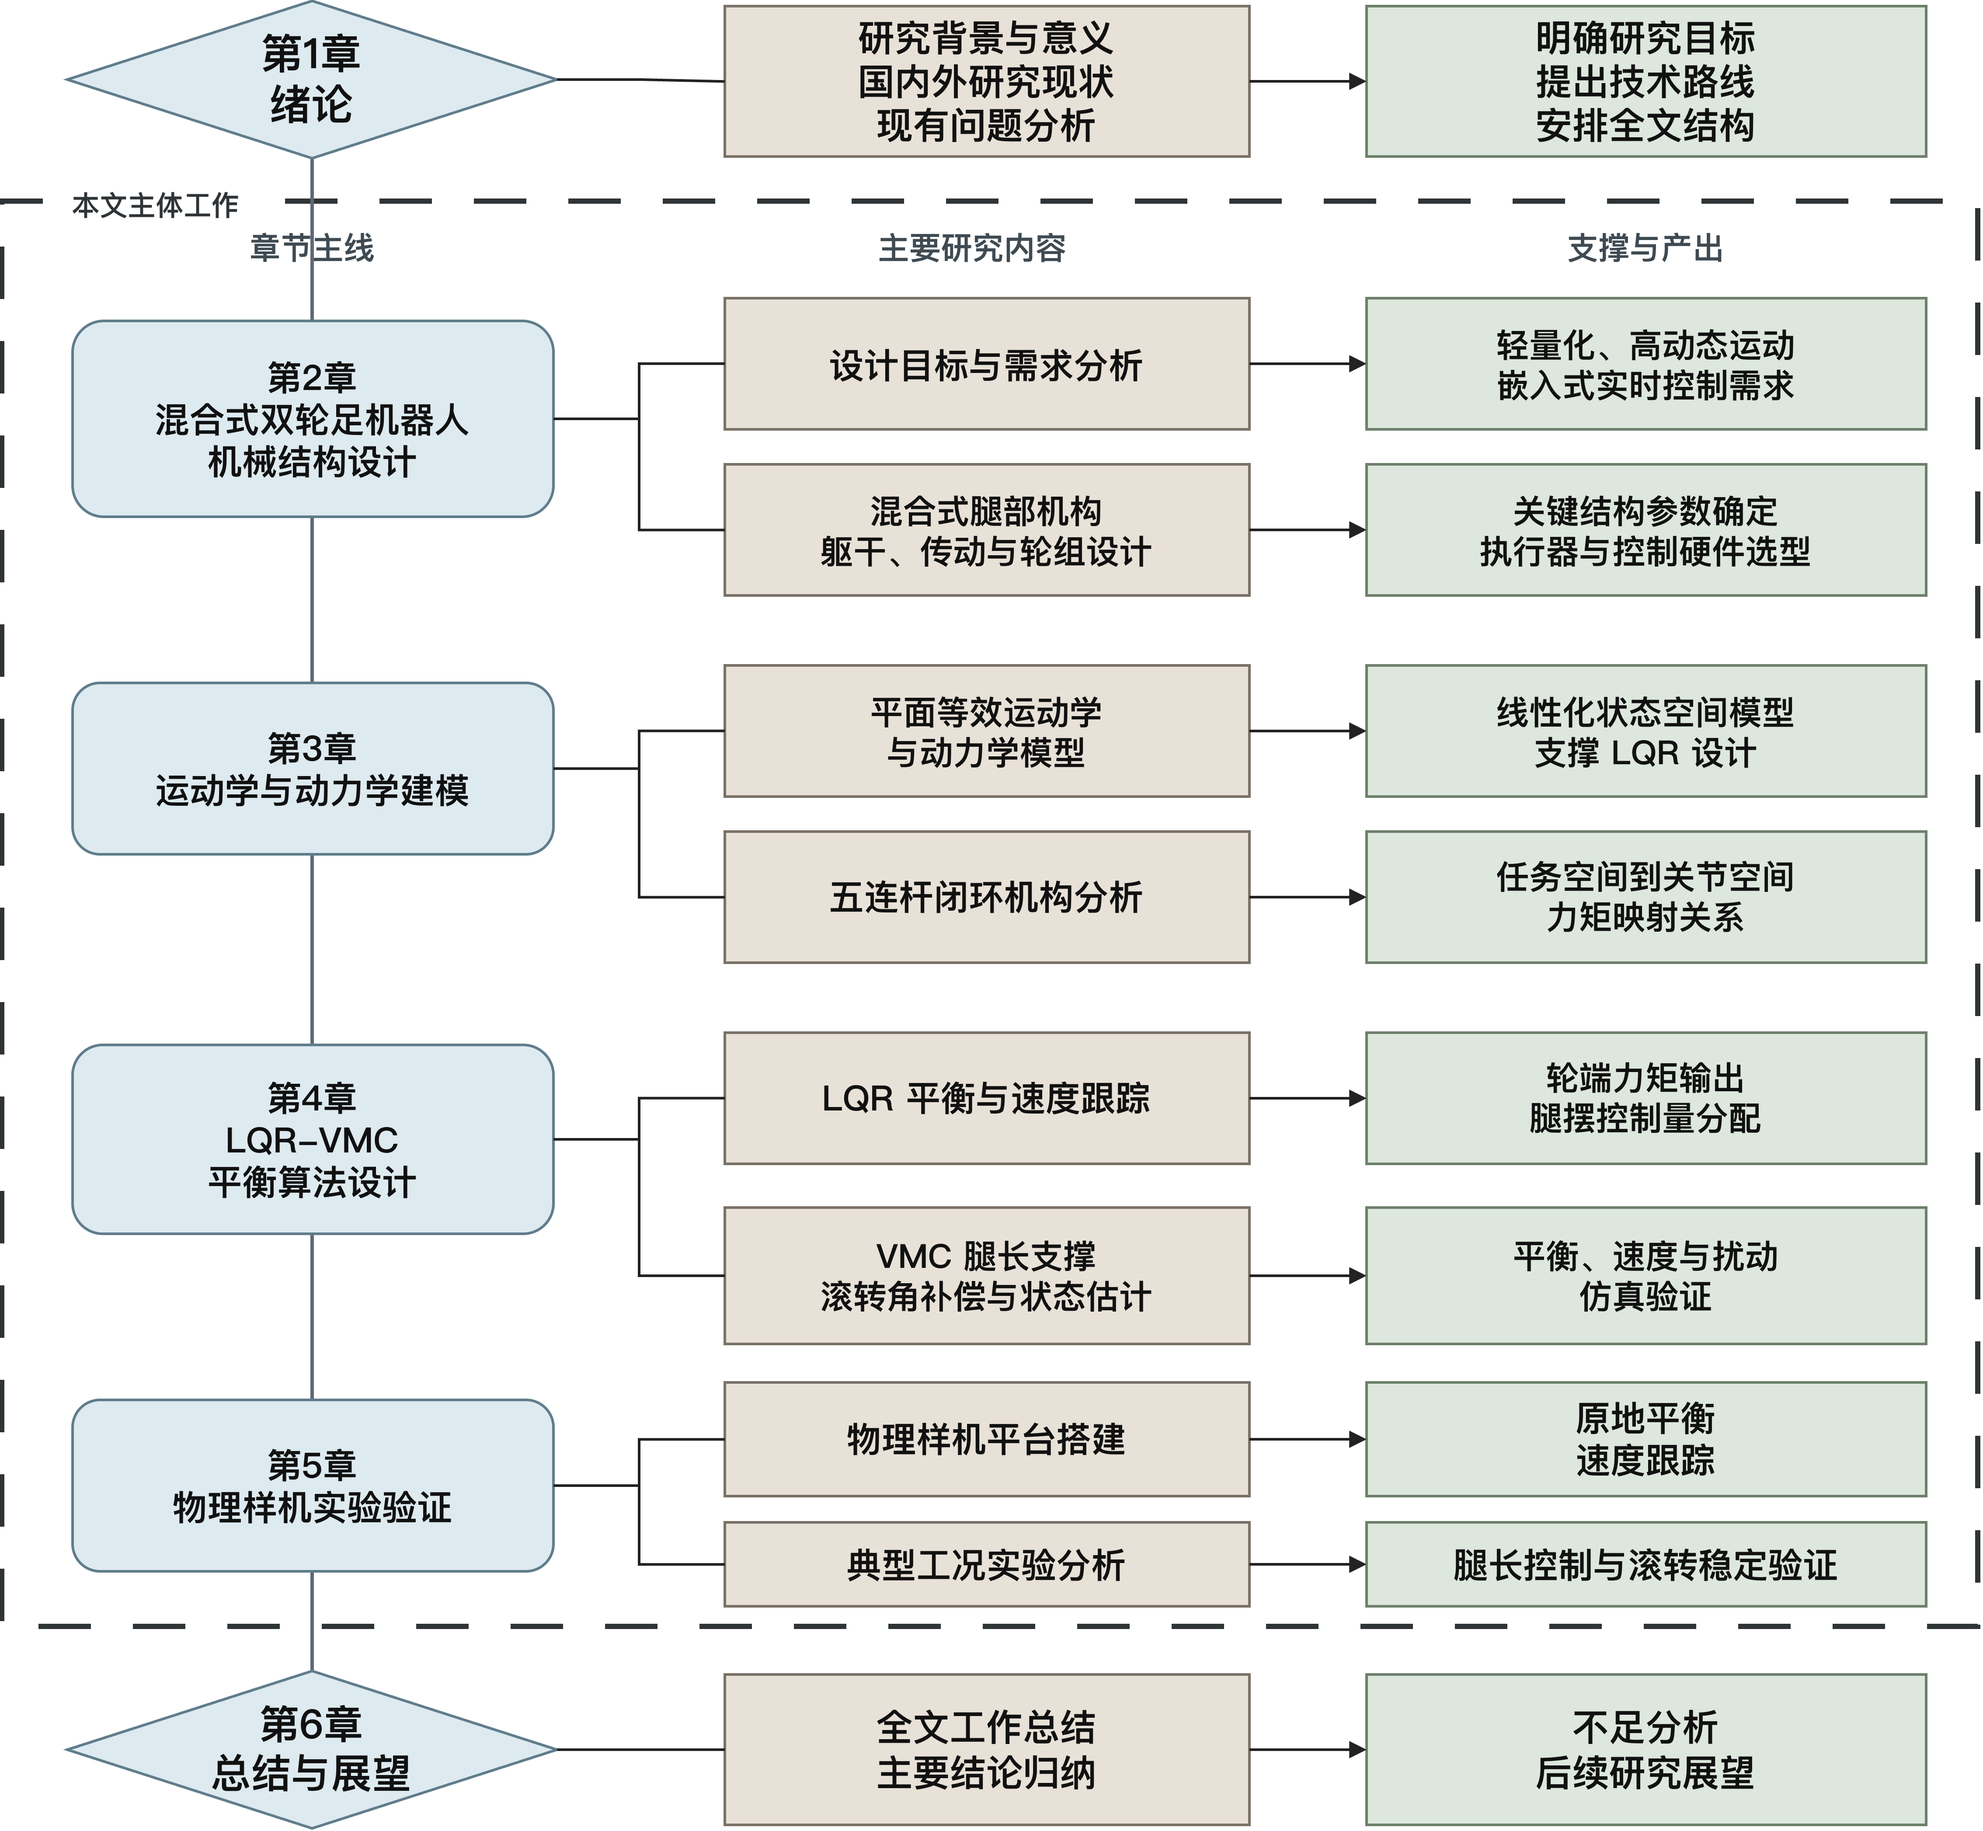
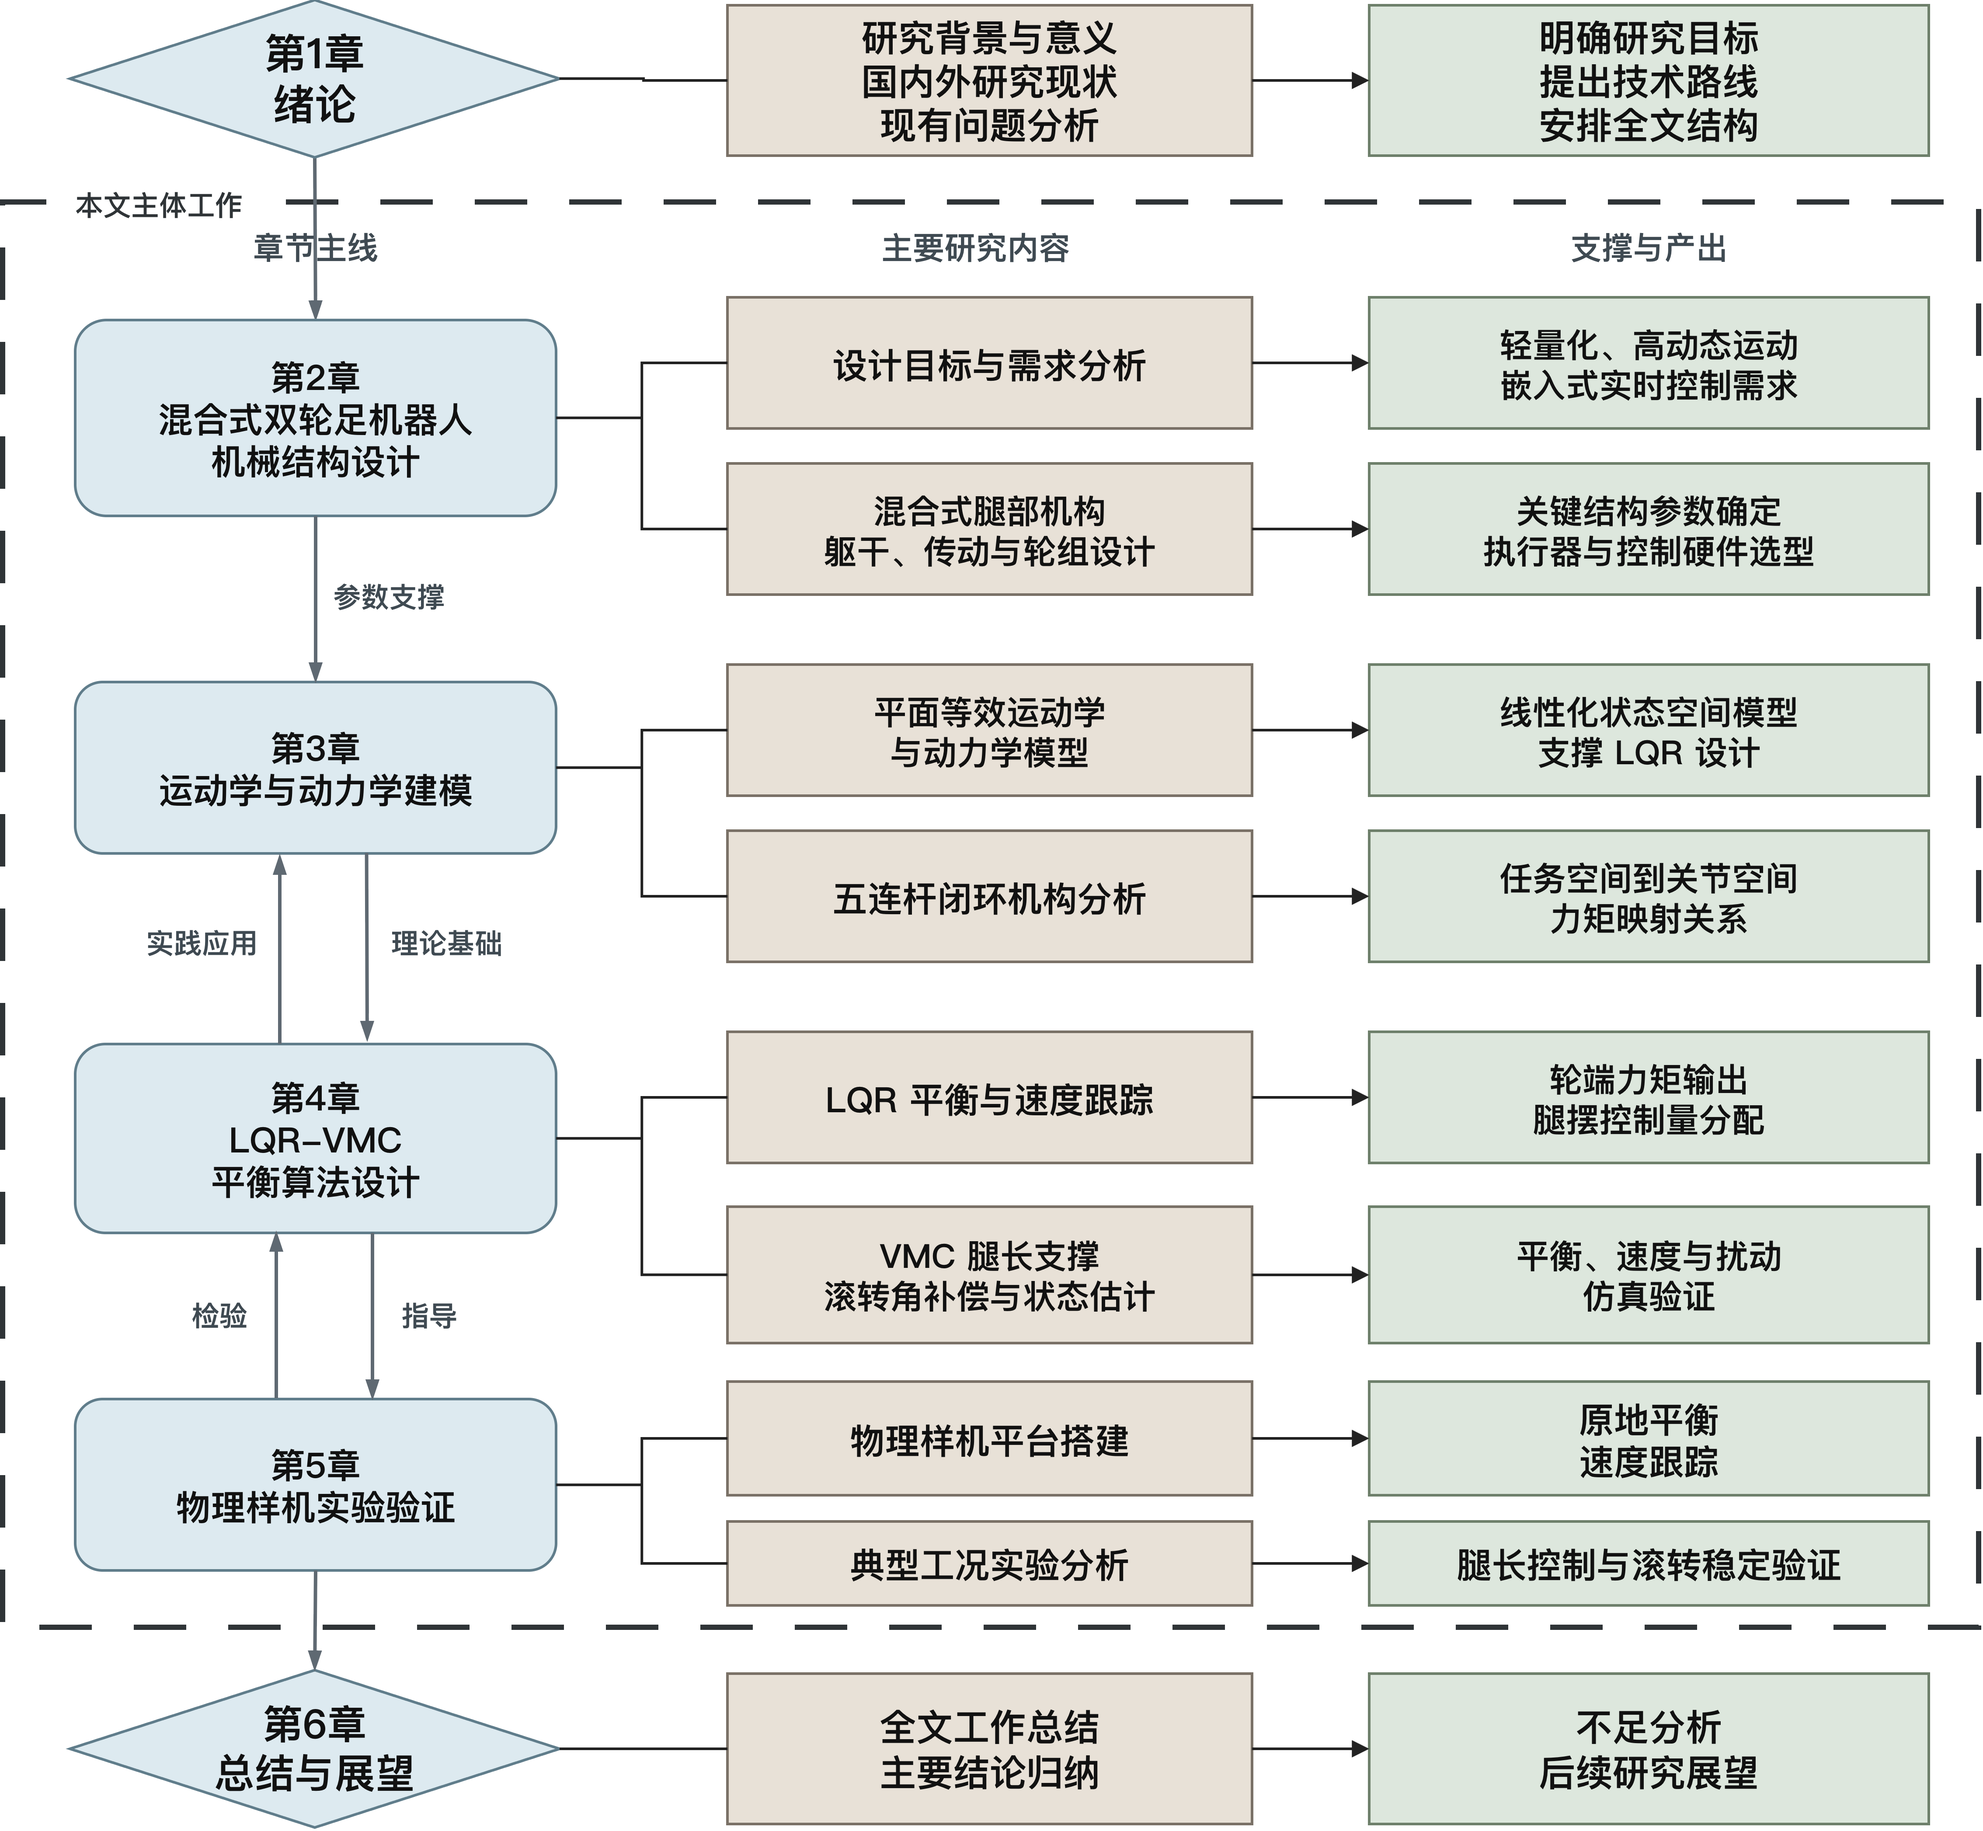
finish

diff --git a/chapters/04_control_design.tex b/chapters/04_control_design.tex
@@ -23,12 +23,12 @@
   \label{fig:control-structure}
 \end{figure}
 
-为了在保证多任务协调与稳定性的同时降低控制器的在线计算负荷，结合第三章的模型推导及样机的实际工程约束，本文的控制架构主要遵循以下三项核心设计原则：
+为了在保证多任务协调与稳定性的同时，适应单片机有限的计算资源，本文结合第三章的动力学模型推导，制定了以下三项核心控制设计原则：
 
 \begin{enumerate}
-  \item \textbf{控制任务解耦化}：将前进方向的倒立摆平衡与速度跟踪、腿长方向的支撑缓冲、以及侧向姿态稳定，分别交由 LQR、VMC 和滚转几何补偿三个独立环节负责。各方向控制通道参数可独立调优，降低了系统耦合带来的调试难度。
-  \item \textbf{核心算法轻量化（定增益 LQR）}：基于前文静态直立工作点处的线性化模型，离线求解代数 Riccati 方程获得恒定反馈增益矩阵。在线阶段仅需执行低阶矩阵乘法，确保在嵌入式系统 1\,kHz 的更新率下不造成明显的算力挤占。
-  \item \textbf{侧向补偿几何化}：不采用 ZMP 轨迹调节或基于模型预测的侧向稳定策略，而是根据当前的滚转角与左右腿跨距等几何关系，以闭式解析的表达式直接对左右腿长参考值施加差动修正。
+  \item \textbf{基于物理运动模式的任务解耦}：双轮足机器人的运动呈现出多维耦合，如果直接采用集中式控制（如WBC），解算负担极大。本文根据机器人的运动特征，将整体目标拆解为两部分：矢状面的倒立摆动态平衡交由 LQR 控制，竖直方向的减震与支撑交由 VMC 独立调节。这种基于物理维度的解耦设计，不仅大幅降低了控制器的维度，还使得各通道的参数能够独立整定，提高了系统的可调试性。
+  \item \textbf{基于虚功原理的力控映射机制}：面对闭环五连杆复杂的逆运动学问题，本策略并未直接求解各关节的期望位置，而是引入了虚拟模型控制（VMC）。通过在任务空间构造“虚拟弹簧-阻尼器”，不仅赋予了腿部良好的柔顺支撑特性，还利用虚功原理将虚拟受力精确映射为底层电机的关节力矩。这在理论上保证了控制量分配的准确性。
+  \item \textbf{侧向姿态的代数补偿策略}：对于容易引发侧翻的滚转角，本策略没有引入复杂的零矩点（ZMP）方程进行在线规划，而是利用左右腿长差与机体侧倾的直接几何约束关系，设计了闭式的解析代数方程。通过直接对 VMC 的腿长目标施加差动修正，在不增加控制环路复杂度的前提下，以最直接的方式提高了机器人的侧向抗扰动能力。
 \end{enumerate}
 
 现有相关研究\cite{klemm2020lqr,yang2024integrated}为双轮足机器人的分层控制提供了重要参考。本文在此思路上，面向物理样机实际部署，进一步确立了这种精简的“定增益控制+几何补偿”技术路线。这种设计能够有效避免在线二次规划（QP）求解和复杂的参数自适应所带来的不确定性，保证了控制链路的清晰透明，最大程度地方便了后续仿真与样机实验的可重复性及安全性。

diff --git a/chapters/01_introduction.tex b/chapters/01_introduction.tex
@@ -182,7 +182,7 @@ Pratt 等人于 2001 年提出虚拟模型控制（VMC）\cite{pratt2001}（\fig
   \end{tabular}
 \end{table}
 
-从表\ref{tab:control-method-overview} 可见，WBC 和 MPC 的优越性能以高昂的在线计算为代价，RL 则将复杂性转移到训练阶段。面向嵌入式实时控制的工程需求，LQR 和 VMC 的低计算成本优势突出——前者离线求解 Riccati 方程，在线仅需计算恒定增益矩阵的乘法；后者为闭式代数运算，无需迭代。LQR 和 VMC 的结合能够在保持平衡和腿长支撑两个方向上分别发挥各自优势，且不引入在线优化环节。
+从表\ref{tab:control-method-overview} 可见，WBC 和 MPC 的优越性能以高昂的在线计算为代价，RL 则将复杂性转移到训练阶段。相较于全身控制（WBC）或模型预测控制（MPC）将整个机器人视为一个复杂整体进行集中优化的思路，本文提出的 LQR-VMC 分层架构建立在运动状态物理分解的基础上。双轮足机器人在常规运动中，其前进方向的倒立摆平衡与竖直方向的支撑缓冲在运动学上具有较强的独立性。因此，本策略利用虚拟力等效的思想，在不需要在线求解复杂二次规划（QP）矩阵的前提下，合理地将这两个控制维度拆开：由 LQR 保证系统重心的稳定与速度跟踪，由 VMC 实现腿部的顺应性力控。这种基于运动学分解的轻量化框架，不仅避免了高级算法带来的严重计算延迟，还能在有限的嵌入式算力下，确保算法能够以 1\,kHz 的高频稳定运行，从而在理论简化与实际控制效果之间取得了良好的平衡。
 
 \subsection{现有研究存在的问题}
 

diff --git a/chapters/ack.tex b/chapters/ack.tex
@@ -10,7 +10,7 @@
 
 其次，特别感谢王骁扬学长，他在我RoboMaster生涯中给予了太多帮助与指导，两年间我们一起开发的sp\_vision是我最为自豪的项目，他对算法的探索与执着、技术的理解与分析都鼓舞着我不断进步。
 
-感谢本科期间的舍友和同学们，友情是我积极生活的底气。
+感谢本科期间的舍友和同学们，友情是我积极乐观面对生活的底气。
 
 最后，感谢我的家人，那些岁月深处的默默托举，是我得以长成今日之我的全部根基。
 行文至此，也意味着四年大学生活进入尾声，回想四年前初入校园时的自己，青涩与不成熟似乎已然褪去，对前路的迷茫与困惑仍交织在心头，但三年RoboMaster的经历给予了我非凡的勇气与远见，时光飞逝只愿我初心不变。
